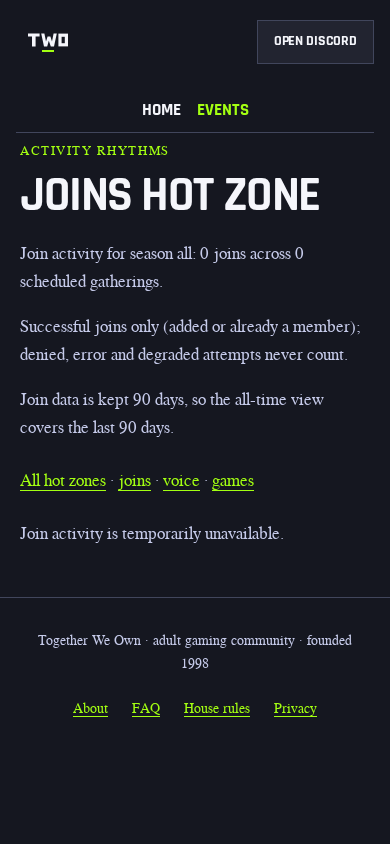
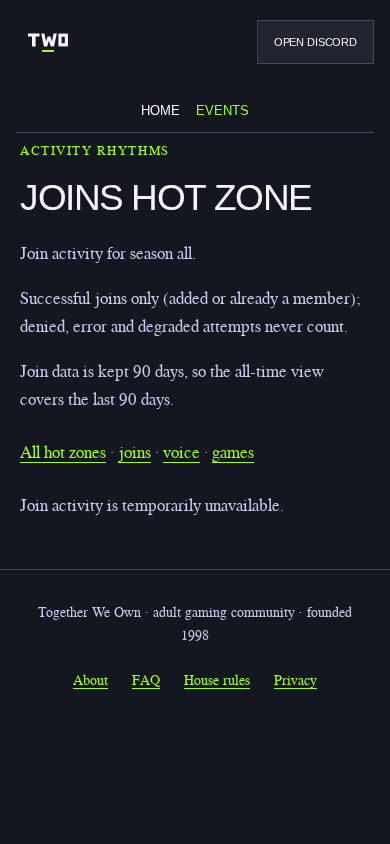
fix(hotzones): gate count summary on available when joins read is down
When the joins read has no database, the index and joins signal pages
rendered '0 joins across 0 scheduled gatherings' above the outage line,
contradicting it. Show neutral season-only copy instead in both twins;
available genuine-empty output is unchanged.

diff --git a/src/hotzones/pages.tsx b/src/hotzones/pages.tsx
@@ -119,10 +119,14 @@ export const HotzonesIndexPage: FC<{
       <main class="events-page" id="main" tabindex={-1}>
         <p class="strap">Activity rhythms</p>
         <h1>Hot zones</h1>
-        <p>
-          Aggregate activity by hour and weekday for season {season}: {joinsTotal} joins across{" "}
-          {eventCount} scheduled gatherings.
-        </p>
+        {available ? (
+          <p>
+            Aggregate activity by hour and weekday for season {season}: {joinsTotal} joins across{" "}
+            {eventCount} scheduled gatherings.
+          </p>
+        ) : (
+          <p>Aggregate activity by hour and weekday for season {season}.</p>
+        )}
         <p>
           Successful joins only (added or already a member); denied, error and degraded attempts
           never count.
@@ -215,10 +219,14 @@ export const HotzoneSignalPage: FC<{
           </p>
         ) : (
           <>
-            <p>
-              Join activity for season {season}: {total} joins
-              {eventCount !== undefined ? ` across ${eventCount} scheduled gatherings` : ""}.
-            </p>
+            {unavailable ? (
+              <p>Join activity for season {season}.</p>
+            ) : (
+              <p>
+                Join activity for season {season}: {total} joins
+                {eventCount !== undefined ? ` across ${eventCount} scheduled gatherings` : ""}.
+              </p>
+            )}
             <p>
               Successful joins only (added or already a member); denied, error and degraded attempts
               never count.

diff --git a/web/src/routes/hotzones/+page.svelte b/web/src/routes/hotzones/+page.svelte
@@ -45,7 +45,11 @@ const peakLine = (peak: Peak, estimated: boolean, unit?: string): string =>
   {/snippet}
   <p class="strap">Activity rhythms</p>
   <h1>Hot zones</h1>
-  <p>Aggregate activity by hour and weekday for season {season}: {joinsTotal} joins across {eventCount} scheduled gatherings.</p>
+  {#if available}
+    <p>Aggregate activity by hour and weekday for season {season}: {joinsTotal} joins across {eventCount} scheduled gatherings.</p>
+  {:else}
+    <p>Aggregate activity by hour and weekday for season {season}.</p>
+  {/if}
   <p>Successful joins only (added or already a member); denied, error and degraded attempts never count.</p>
   {#if retentionNote}<p>{retentionNote}</p>{/if}
   <nav aria-label="Signals">

diff --git a/web/src/routes/hotzones/[signal]/+page.svelte b/web/src/routes/hotzones/[signal]/+page.svelte
@@ -48,7 +48,11 @@ const peakLine = (peak: Peak, estimated: boolean, unit?: string): string =>
   {#if estimated}
     <p>Estimated {signal} activity for season {season} (estimates until bot event-store calibration). Total estimate: {total}.</p>
   {:else}
-    <p>Join activity for season {season}: {total} joins across {eventCount} scheduled gatherings.</p>
+    {#if unavailable}
+      <p>Join activity for season {season}.</p>
+    {:else}
+      <p>Join activity for season {season}: {total} joins across {eventCount} scheduled gatherings.</p>
+    {/if}
     <p>Successful joins only (added or already a member); denied, error and degraded attempts never count.</p>
     {#if retentionNote}<p>{retentionNote}</p>{/if}
   {/if}
